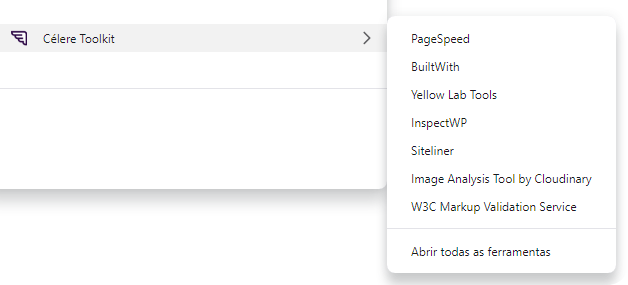
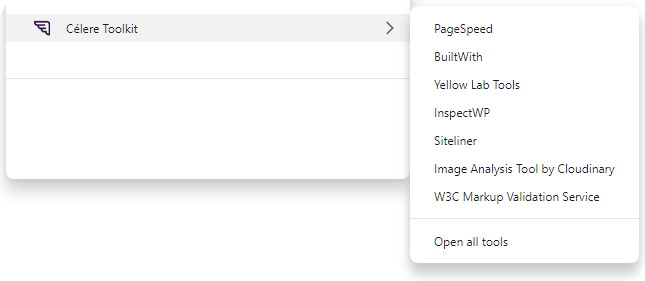
translation

Changed region(s): [[0.0, 0.0569, 0.9984, 0.9964], [0.0, 0.0285, 0.2118, 0.1708], [0.6051, 0.0, 0.6656, 0.0285]]

diff --git a/background.js b/background.js
@@ -7,7 +7,7 @@ chrome.runtime.onInstalled.addListener(() => {
     { id: "Siteliner", title: "Siteliner" },
     { id: "Cloudinary", title: "Image Analysis Tool by Cloudinary" },
     { id: "W3C", title: "W3C Markup Validation Service" },
-    { id: "All", title: "Abrir todas as ferramentas" },
+    { id: "All", title: "Open all tools" },
   ];
 
   for (const site of sites) {
@@ -187,7 +187,7 @@ chrome.contextMenus.onClicked.addListener((info, tab) => {
         func: (errorMessage) => {
           alert(errorMessage);
         },
-        args: [`Erro ao enviar URL para ${toolName}: ` + error],
+        args: [`Error sending URL to ${toolName}: ` + error],
       });
     });
   }

diff --git a/README.md b/README.md
@@ -1,8 +1,8 @@
 # Célere Toolkit
 
-Acesse facilmente ferramentas de análise de web performance através do menu de contexto em navegadores baseados em Chromium.
+Easily access web performance analysis tools through the context menu in Chromium-based browsers.
 
-## Ferramentas
+## Tools
 
 - [PageSpeed](https://pagespeed.web.dev/)
 - [BuiltWith](https://builtwith.com/)
@@ -12,23 +12,27 @@ Acesse facilmente ferramentas de análise de web performance através do menu de
 - [Image Analysis Tool by Cloudinary](https://webspeedtest.cloudinary.com/)
 - [W3C Markup Validation Service](https://validator.w3.org/)
 
-## Instalação
+## Installation
 
-- [Faça o download do arquivo](https://github.com/Celere-WP/celeridade/releases).
-- Extraia o arquivo ZIP.
-- Abra o navegador baseado em Chromium e vá para `chrome://extensions`.
-- Ative o "Modo Desenvolvedor" (localizado no canto superior direito).
-- Clique no botão "Carregar sem compactação" (localizado no canto superior esquerdo).
-- Navegue até o diretório onde você extraiu o arquivo ZIP contendo a extensão.
-- Selecione a pasta da extensão.
+- [Download the file](https://github.com/Celere-WP/celeridade/releases).
+- Extract the ZIP file.
+- Open the Chromium-based browser and go to `chrome://extensions`.
+- Enable "Developer Mode" (located in the upper right corner).
+- Click the "Load unpacked" button (located in the upper left corner).
+- Navigate to the directory where you extracted the ZIP file containing the extension.
+- Select the extension folder.
 
-## Uso
+## Usage
 
-![Printscreen](assets/context-menu.png)
+![Screenshot](assets/context-menu.png)
 
-No site que deseja analisar, clique com o botão direito em qualquer área da página para acessar o menu; uma nova aba será aberta na ferramenta selecionada e a análise começará automaticamente.
+On the site you want to analyze, right-click anywhere on the page to access the menu; a new tab will open in the selected tool and the analysis will start automatically.
 
 > [!NOTE]
-> A análise feita pela ferramenta **Image Analysis Tool by Cloudinary** leva alguns segundos para iniciar; após selecioná-la no menu, aguarde.
+> The analysis performed by the **Image Analysis Tool by Cloudinary** takes a few seconds to start; after selecting it from the menu, please wait.
 >
-> Cada ferramenta possui suas próprias políticas de acesso: limite de requisições, bloqueio de IPs ou VPNs, e requisitos de login em algumas funcionalidades. Para evitar problemas de acesso, utilize as ferramentas de forma moderada e consulte as políticas diretamente nos sites quando necessário.
+> Each tool has its own access policies: request limits, IP or VPN blocking, and login requirements for some features. To avoid access issues, use the tools moderately and refer to the policies directly on the sites when necessary.
+
+## Contributing
+
+Feel free to submit issues or pull requests for any bug fixes or new features. They can be opened in English *ou em Português*.

diff --git a/README.pt-BR.md b/README.pt-BR.md
@@ -1,0 +1,38 @@
+# Célere Toolkit
+
+Acesse facilmente ferramentas de análise de web performance através do menu de contexto em navegadores baseados em Chromium.
+
+## Ferramentas
+
+- [PageSpeed](https://pagespeed.web.dev/)
+- [BuiltWith](https://builtwith.com/)
+- [Yellow Lab Tools](https://yellowlab.tools/)
+- [InspectWP](https://inspectwp.com/en)
+- [Siteliner](https://www.siteliner.com/)
+- [Image Analysis Tool by Cloudinary](https://webspeedtest.cloudinary.com/)
+- [W3C Markup Validation Service](https://validator.w3.org/)
+
+## Instalação
+
+- [Faça o download do arquivo](https://github.com/Celere-WP/celeridade/releases).
+- Extraia o arquivo ZIP.
+- Abra o navegador baseado em Chromium e vá para `chrome://extensions`.
+- Ative o "Modo Desenvolvedor" (localizado no canto superior direito).
+- Clique no botão "Carregar sem compactação" (localizado no canto superior esquerdo).
+- Navegue até o diretório onde você extraiu o arquivo ZIP contendo a extensão.
+- Selecione a pasta da extensão.
+
+## Uso
+
+![Printscreen](assets/context-menu.png)
+
+No site que deseja analisar, clique com o botão direito em qualquer área da página para acessar o menu; uma nova aba será aberta na ferramenta selecionada e a análise começará automaticamente.
+
+> [!NOTE]
+> A análise feita pela ferramenta **Image Analysis Tool by Cloudinary** leva alguns segundos para iniciar; após selecioná-la no menu, aguarde.
+>
+> Cada ferramenta possui suas próprias políticas de acesso: limite de requisições, bloqueio de IPs ou VPNs, e requisitos de login em algumas funcionalidades. Para evitar problemas de acesso, utilize as ferramentas de forma moderada e consulte as políticas diretamente nos sites quando necessário.
+
+## Contribuições
+
+Sinta-se à vontade para enviar issues ou pull requests para qualquer correção de bugs ou novas funcionalidades. Eles podem ser abertos em inglês ou em português.
